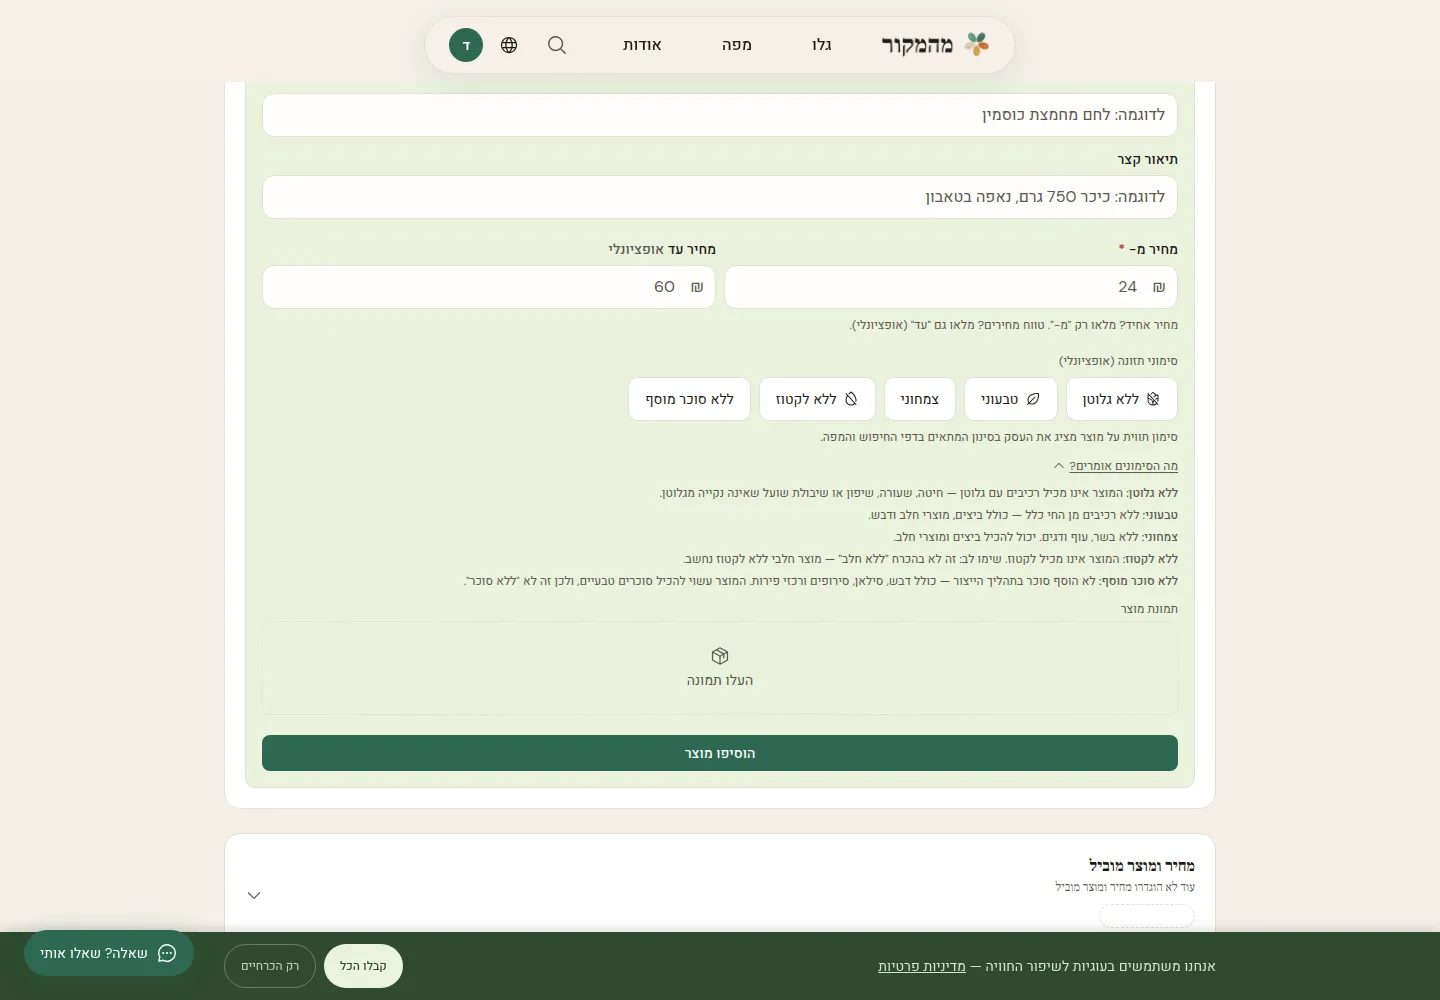
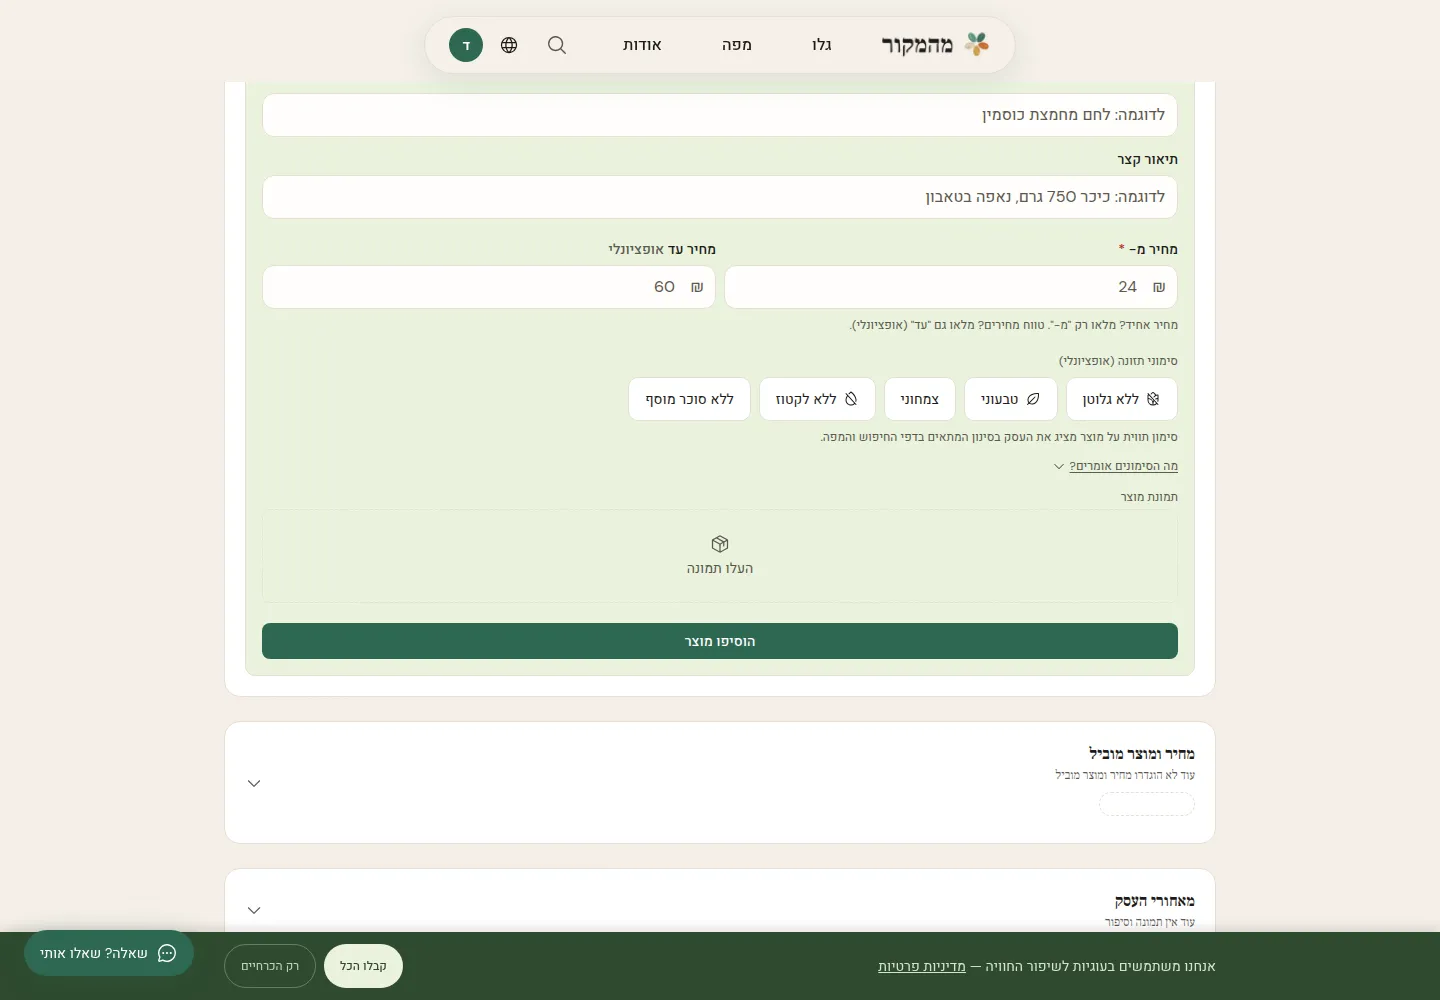
fix(meh-2047): repair a mangled comment, and make the QA harness catch the duplicate-frame defect it shipped
Both from the CI reviewer on #2859. Both were real; the second is the one
worth reading.

1. attribute-labels.js — a sed-shaped edit left "Same any-product /
   self-declared shape as — an EXISTS subquery", with the clause the "as"
   pointed at ("the four above") removed and nothing put back. Rejoined.

2. The two 1440px captures named "2-open" and "3-chip-row" shared one git
   blob, and so did the two 390px ones. The harness took state 3 straight
   after state 2 without touching the page, so it photographed the same
   frame twice and wrote it under two names — while the PR body cited them
   as separate evidence for separate states.

   That is the artifact-asserts-coverage failure in its purest form: the
   file NAME did the claiming and nothing verified the claim. It was caught
   by a reviewer comparing blob hashes, not by the harness, not by the six
   green console lines, and not by me looking at the output.

   Fixed at the cause rather than by relabelling: state 3 now closes the
   disclosure first, so it genuinely shows the chip row at rest. And the
   harness asserts the two files differ byte-for-byte and throws if they do
   not — the check that would have failed on the version just replaced.

   Re-captured and verified distinct at both widths (md5, before and after
   WebP compression). State 1 and state 3 were checked too, since "closed
   before" and "closed after" could have collapsed the same way; they
   differ.
[…]

Changed region(s): [[0.1562, 0.465, 0.8438, 0.93], [0.5312, 0.465, 0.5625, 0.496], [0.4688, 0.465, 0.5, 0.496]]

diff --git a/frontend/lib/attribute-labels.js b/frontend/lib/attribute-labels.js
@@ -102,8 +102,9 @@ export const ATTRIBUTE_LABELS = {
     subtext: "עסקים עם מוצרים ללא לקטוז בקטלוג",
   },
   // MEH-1934: fifth diet axis (a sixth, low_carb, was withdrawn — see below).
-  // Same any-product / self-declared shape as — an EXISTS subquery over products, never a whole-business
-  // property. Copy is Sapir-LOCKED (MEH-1934 §hebrew_copy): do not paraphrase.
+  // Same any-product / self-declared shape as the four above — an EXISTS
+  // subquery over products, never a whole-business property. Copy is
+  // Sapir-LOCKED (MEH-1934 §hebrew_copy): do not paraphrase.
   //
   // "מתאים לסוכרתיים" stays banned on every surface — it is a medical claim,
   // and this label is a self-declaration about a product, which is the exact
